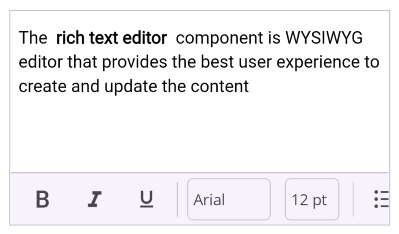
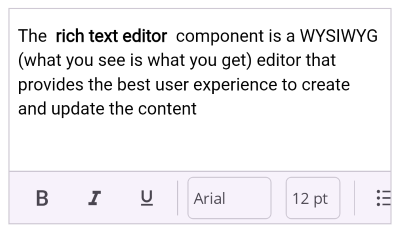
image changed

diff --git a/rich-text-editor-sdk/maui/rich-text-editor/Advanced-Features.md b/rich-text-editor-sdk/maui/rich-text-editor/Advanced-Features.md
@@ -20,7 +20,7 @@ The Rich Text Editor control displays plain text, which can be set using the [Te
 {% highlight xaml %} 
 xmlns:richTextEditor="clr-namespace:Syncfusion.Maui.RichTextEditor;assembly=Syncfusion.Maui.RichTextEditor"
 
- <richTextEditor:SfRichTextEditor Text="The rich text editor component is a WYSIWYG editor that provides the best user experience to create and update the content"/>
+ <richTextEditor:SfRichTextEditor Text="The rich text editor component is a WYSIWYG (what you see is what you get) editor that provides the best user experience to create and update the content"/>
 
 {% endhighlight %}
 
@@ -28,7 +28,7 @@ xmlns:richTextEditor="clr-namespace:Syncfusion.Maui.RichTextEditor;assembly=Sync
 using Syncfusion.Maui.RichTextEditor;
 
 SfRichTextEditor richTextEditor = new SfRichTextEditor();
-richTextEditor.Text = "The rich text editor component is a WYSIWYG editor that provides the best user experience to create and update the content";
+richTextEditor.Text = "The rich text editor component is a WYSIWYG (what you see is what you get) editor that provides the best user experience to create and update the content";
 
 {% endhighlight %}
 
@@ -45,7 +45,7 @@ The [HtmlText](https://help.syncfusion.com/cr/maui/Syncfusion.Maui.RichTextEdito
 {% highlight xaml %} 
 xmlns:richTextEditor="clr-namespace:Syncfusion.Maui.RichTextEditor;assembly=Syncfusion.Maui.RichTextEditor"
 
- <richTextEditor:SfRichTextEditor HtmlText= "The &lt;b&gt; rich text editor &lt;/b&gt; component is a WYSIWYG editor that provides the best user experience to create and update the content"/>
+ <richTextEditor:SfRichTextEditor HtmlText= "The &lt;b&gt; rich text editor &lt;/b&gt; component is a WYSIWYG (what you see is what you get) editor that provides the best user experience to create and update the content"/>
 
 {% endhighlight %}
 
@@ -53,7 +53,7 @@ xmlns:richTextEditor="clr-namespace:Syncfusion.Maui.RichTextEditor;assembly=Sync
 using Syncfusion.Maui.RichTextEditor;
 
 SfRichTextEditor richTextEditor = new SfRichTextEditor();
-richTextEditor.HtmlText = "The <b>rich text editor</b> component is a WYSIWYG editor that provides the best user experience to create and update the content";
+richTextEditor.HtmlText = "The <b>rich text editor</b> component is a WYSIWYG (what you see is what you get) editor that provides the best user experience to create and update the content";
 
 {% endhighlight %}
 
